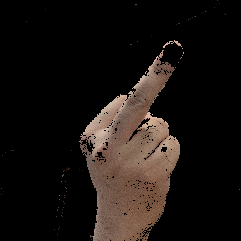
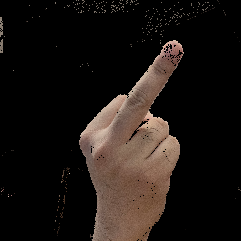
update mp4 results

diff --git a/homework4/main.py b/homework4/main.py
@@ -226,25 +226,28 @@ def main():
     Main function.
     """
     dataset_dir = os.path.join(os.path.dirname(__file__), 'dataset')
-    test_rgb_path = os.path.join(os.path.dirname(__file__), 'instructions', 'gun1.bmp')
+    # test_rgb_path = os.path.join(os.path.dirname(__file__), 'instructions', 'gun1.bmp')
+    # test_rgb_path = os.path.join(os.path.dirname(__file__), 'instructions', 'joy1.bmp')
+    # test_rgb_path = os.path.join(os.path.dirname(__file__), 'instructions', 'pointer1.bmp')
+    test_rgb_path = os.path.join(os.path.dirname(__file__), 'dataset', 'middle_finger_rgb.png')
 
     """
     RGB Histogram
     """
-    # Compute the histogram over all masked pixels
-    hist2d = compute_rg_histogram(dataset_dir)
-    # Normalize the histogram
-    hist2d = normalize_nonzero(hist2d)
-    # Visualize it
-    visualize_histogram(hist2d)
-    # Test the histogram on a single image
-    rgb_img = load_image(test_rgb_path, img_format='rgb')
-    rgb_to_nrgb(rgb_img)
-    mask = segment_by_histogram(rgb_img, hist2d, threshold=1e-3)
-    # mask the image
-    img_masked = cv2.bitwise_and(rgb_img, rgb_img, mask=mask)
-    # Display the original image and the mask
-    display_image(img_masked, title='Original Image')
+    # # Compute the histogram over all masked pixels
+    # hist2d = compute_rg_histogram(dataset_dir)
+    # # Normalize the histogram
+    # hist2d = normalize_nonzero(hist2d)
+    # # Visualize it
+    # visualize_histogram(hist2d)
+    # # Test the histogram on a single image
+    # rgb_img = load_image(test_rgb_path, img_format='rgb')
+    # rgb_to_nrgb(rgb_img)
+    # mask = segment_by_histogram(rgb_img, hist2d, threshold=1e-3)
+    # # mask the image
+    # img_masked = cv2.bitwise_and(rgb_img, rgb_img, mask=mask)
+    # # Display the original image and the mask
+    # display_image(img_masked, title='Original Image')
 
     """
     nRGB Histogram
@@ -258,7 +261,7 @@ def main():
     # # Test the histogram on a single image
     # rgb_img = load_image(test_rgb_path, img_format='rgb')
     # nrgb_img = rgb_to_nrgb(rgb_img)
-    # mask = segment_by_histogram(nrgb_img, hist2d, threshold=0.02)
+    # mask = segment_by_histogram(nrgb_img, hist2d, threshold=0.25)
     # # mask the image
     # img_masked = cv2.bitwise_and(rgb_img, rgb_img, mask=mask)
     # # Display the original image and the mask
@@ -276,13 +279,11 @@ def main():
     # # Test the histogram on a single image
     # rgb_img = load_image(test_rgb_path, img_format='rgb')
     # hsi_img = rgb_to_hsi(rgb_img)
-    # mask = segment_by_histogram(hsi_img, hist2d, threshold=1e-3)
+    # mask = segment_by_histogram(hsi_img, hist2d, threshold=1e-2)
     # # mask the image
     # img_masked = cv2.bitwise_and(rgb_img, rgb_img, mask=mask)
     # # Display the original image and the mask
     # display_image(img_masked, title='Original Image')
-                
-
 
 if __name__ == "__main__":
     main()
